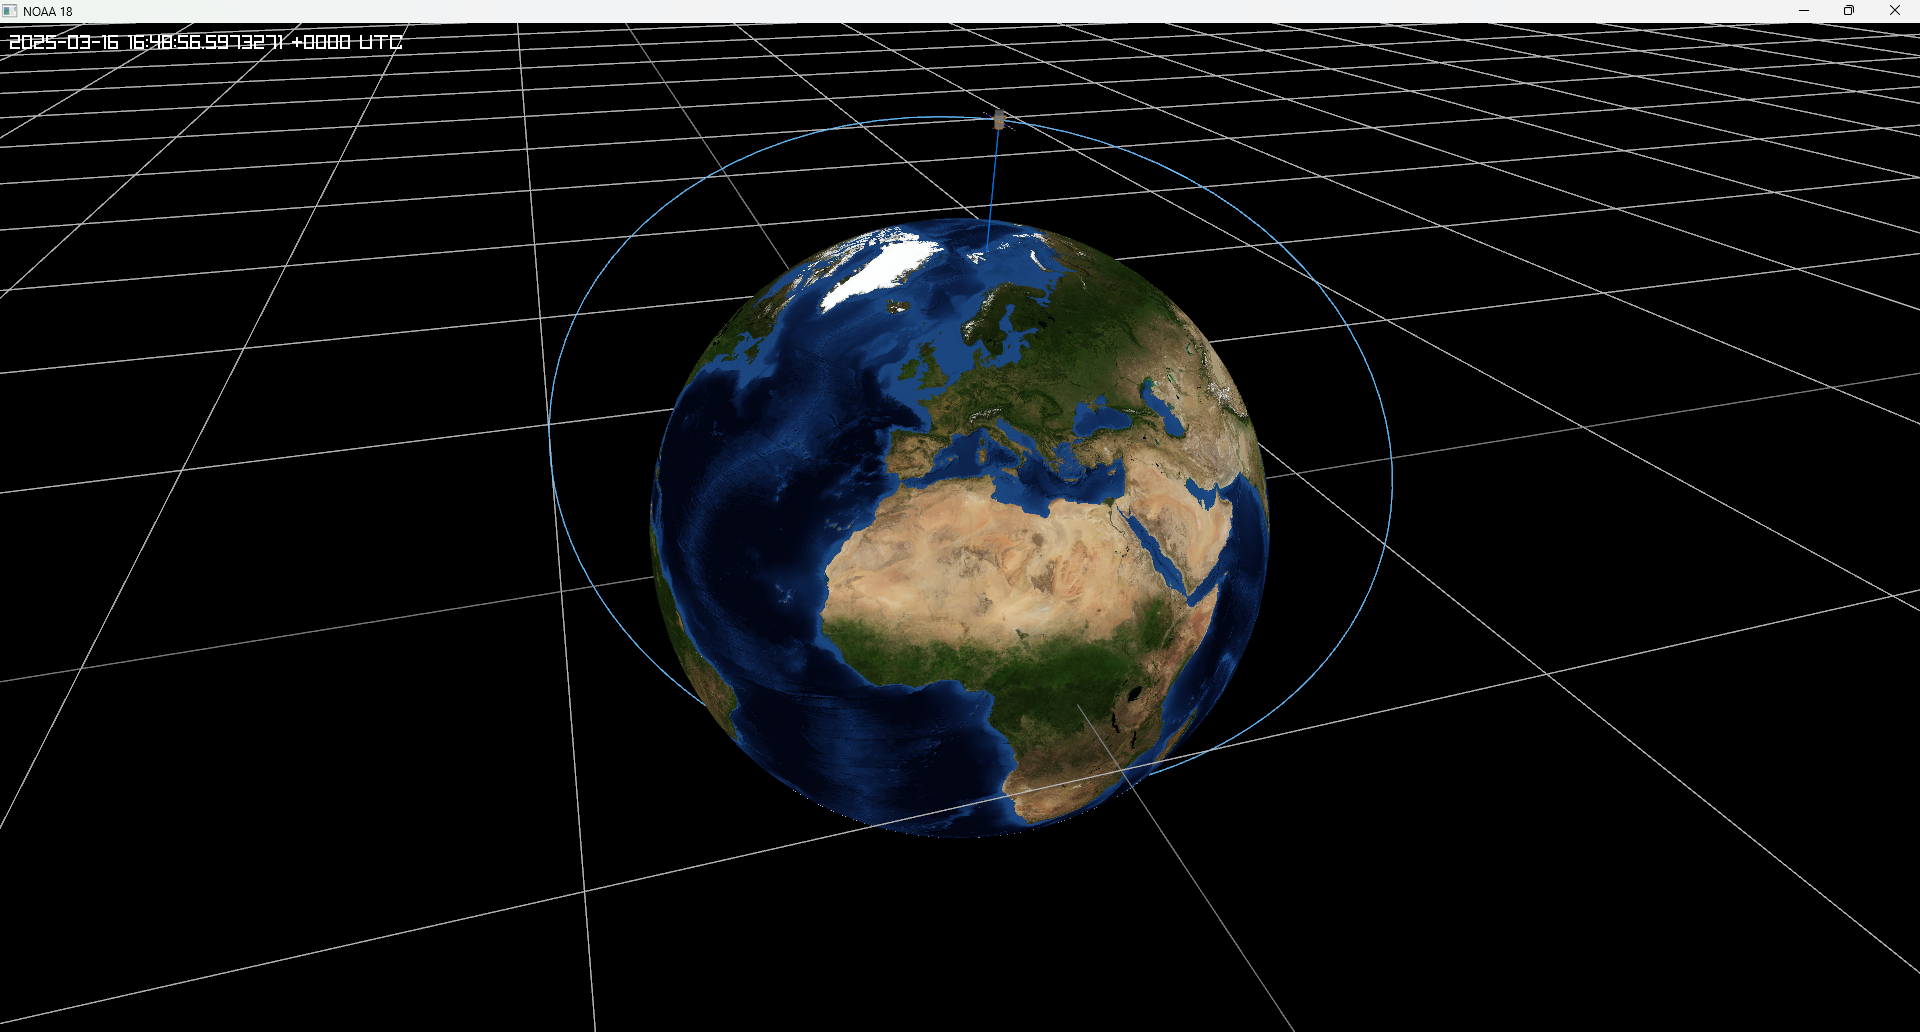
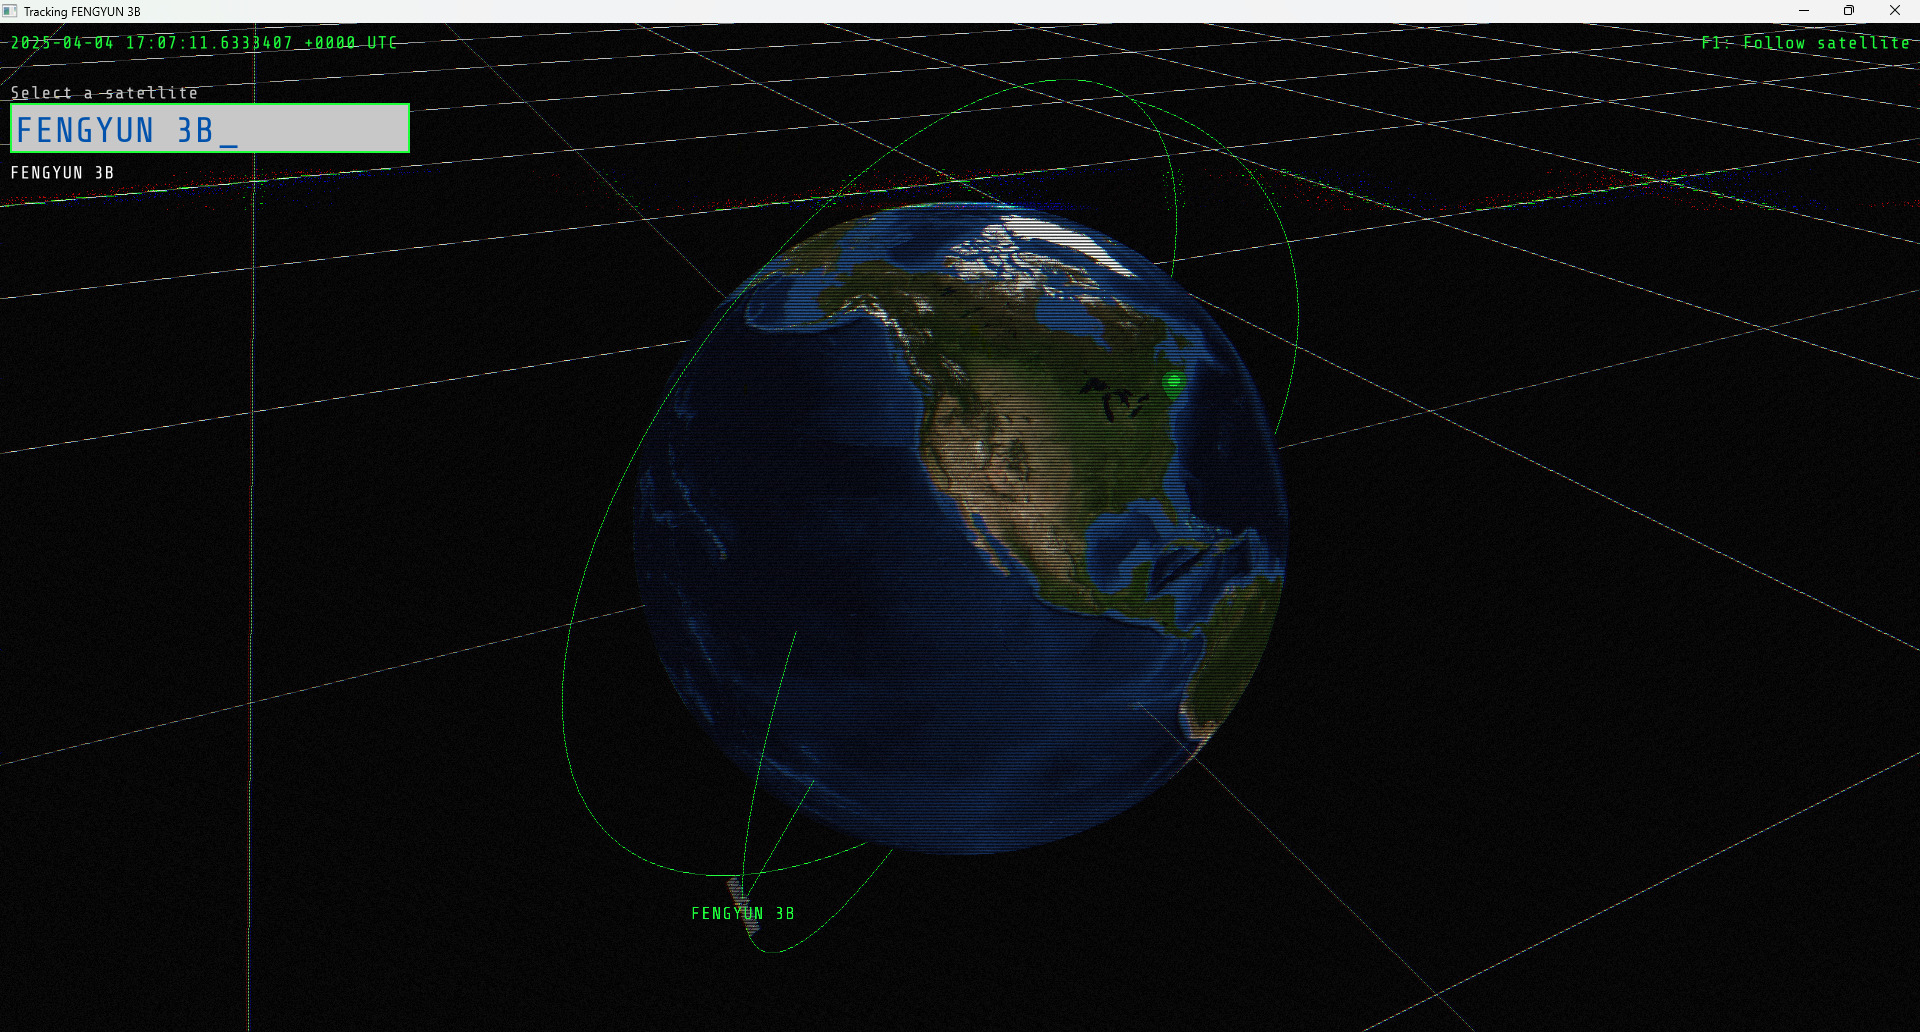
Update readme and screenshots Improved visuals with custom font and better color palette

diff --git a/tracker.go b/tracker.go
@@ -86,8 +86,9 @@ func main() {
 	defer rl.CloseWindow()
 
 	selectedSatellite := cfg.Section("Tracker").Key("satellite").String()
+	fmt.Println("[Config] Selected satellite:", selectedSatellite)
 
-	// Parse lat/long from config
+	// Parse lat/long from
 	parts := strings.Split(cfg.Section("Tracker").Key("ground_station").String(), ", ")
 	if len(parts) < 2 {
 		fmt.Printf("invalid ground station format")
@@ -105,14 +106,14 @@ func main() {
 		fmt.Printf("invalid longitude: %v", err)
 		return
 	}
-	fmt.Println("[Config] Ground station", groundLon, groundLat)
+	fmt.Println("[Config] Ground station:", groundLon, groundLat)
 
 	now := time.Now().UTC()
 
 	inputText := ""
 	orbitPoints := cfg.Section("Tracker").Key("orbit_duration").MustInt(100)
 
-	fmt.Println("[Config] Orbit points", orbitPoints)
+	fmt.Println("[Config] Orbit points:", orbitPoints)
 
 	var orbitPath = make([]rl.Vector3, orbitPoints)
 	sat, err := selectSatellite(selectedSatellite, satellites, scale, now, orbitPath[:], orbitPoints)
@@ -126,13 +127,17 @@ func main() {
 	resLoc := rl.GetShaderLocation(crtShader, "resolution")
 	defer rl.UnloadShader(crtShader)
 
-	earth_model := rl.LoadModel("res/Earth_1_12756.glb")
-	defer rl.UnloadModel(earth_model)
-	satellite_model := rl.LoadModel("res/satellite.glb")
-	defer rl.UnloadModel(satellite_model)
+	earthModel := rl.LoadModel("res/Earth_1_12756.glb")
+	defer rl.UnloadModel(earthModel)
+	satelliteModel := rl.LoadModel("res/satellite.glb")
+	defer rl.UnloadModel(satelliteModel)
 
 	bilboardTexture := rl.LoadTexture("res/location-bilboard-map.png")
 	defer rl.UnloadTexture(bilboardTexture)
+
+	ui.HackerFont = rl.LoadFontEx("res/ShareTechMono-Regular.ttf", 40, nil)
+	rl.SetTextureFilter(ui.HackerFont.Texture, rl.FilterBilinear)
+	defer rl.UnloadFont(ui.HackerFont)
 	
 	renderTarget := rl.LoadRenderTexture(int32(rl.GetScreenWidth()), int32(rl.GetScreenHeight()))
 	camera := rl.Camera{}
@@ -189,15 +194,15 @@ func main() {
 
 		rl.DrawGrid(50, 10)
 
-		rl.DrawModelEx(earth_model, rl.NewVector3(0, 0, 0), rl.NewVector3(0, 1, 0), 180, rl.NewVector3(0.01, 0.01, 0.01), rl.White)
+		rl.DrawModelEx(earthModel, rl.NewVector3(0, 0, 0), rl.NewVector3(0, 1, 0), 180, rl.NewVector3(0.01, 0.01, 0.01), rl.White)
 
 		// Draw orbit
 		for i := 0; i < orbitPoints-1; i++ {
-			rl.DrawLine3D(orbitPath[i], orbitPath[i+1], rl.SkyBlue)
+			rl.DrawLine3D(orbitPath[i], orbitPath[i+1], ui.GREEN_HACKER_COLOR)
 		}
 
-		rl.DrawModelEx(satellite_model, satPos, rl.NewVector3(0, 0, 0), 0.0, rl.NewVector3(0.0001, 0.0001, 0.0001), rl.White)
-		rl.DrawLine3D(satPos, rl.NewVector3(0, 0, 0), rl.Blue)
+		rl.DrawModelEx(satelliteModel, satPos, rl.NewVector3(0, 0, 0), 0.0, rl.NewVector3(0.0001, 0.0001, 0.0001), rl.White)
+		rl.DrawLine3D(satPos, rl.NewVector3(0, 0, 0), ui.GREEN_HACKER_COLOR)
 
 		// Draw ground station
 		groundStationECI := satellite.LLAToECI(satellite.LatLong{Latitude: groundLat * satellite.DEG2RAD, Longitude: groundLon * satellite.DEG2RAD}, 0.0, satellite.JDay(now.Year(), int(now.Month()), now.Day(), now.Hour(), now.Minute(), now.Second()))
@@ -206,7 +211,7 @@ func main() {
 		rotationMatrix := rl.MatrixRotateY(rl.Deg2rad * 90)
 		groundStationRotated := rl.Vector3Transform(rl.NewVector3(float32(groundStation.X), float32(groundStation.Z), -float32(groundStation.Y)), rotationMatrix)
 		// rl.DrawSphere(rl.NewVector3(groundStationRotated.X/1300, groundStationRotated.Y/1300, groundStationRotated.Z/1300), 0.1, rl.White)
-		rl.DrawBillboard(camera, bilboardTexture, rl.NewVector3(groundStationRotated.X/1260, groundStationRotated.Y/1260+0.1, groundStationRotated.Z/1260), 0.5, rl.White)
+		rl.DrawBillboard(camera, bilboardTexture, rl.NewVector3(groundStationRotated.X/1260, groundStationRotated.Y/1260+0.1, groundStationRotated.Z/1260), 0.5, ui.GREEN_HACKER_COLOR)
 
 		rl.EndMode3D()
 
@@ -224,21 +229,23 @@ func main() {
 		rl.EndShaderMode()
 
 		// Render the UI
-		date_text := now.String()
-		rl.DrawText(date_text, 10, 10, 20, rl.Yellow)
+		dateText := now.String()
+		rl.DrawTextEx(ui.HackerFont, dateText, rl.NewVector2(10, 10), 20, 1.0, ui.GREEN_HACKER_COLOR)
 
-		help_text := "F1: Follow satellite"
-		rl.DrawText(help_text, int32(rl.GetScreenWidth())-rl.MeasureText(help_text, 20)-10, 10, 20, rl.Yellow)
+		helpText := "F1: Follow satellite"
+		if followSatellite {
+			helpText = "F1: Globe view"
+		}
+		rl.DrawTextEx(ui.HackerFont, helpText, rl.NewVector2(float32(rl.GetScreenWidth()) - rl.MeasureTextEx(ui.HackerFont, helpText, 20, 1.0).X - 10, 10), 20, 1.0, ui.GREEN_HACKER_COLOR)
 
 		ui.InputText("Select a satellite", 10, 80, 400, 50, &inputText, 20)
 		inputText = strings.ToUpper(inputText)
-		if inputText != selectedSatellite {
-			selectedSatellite = inputText
-			tempSat, err := selectSatellite(selectedSatellite, satellites, scale, now, orbitPath[:], orbitPoints)
+		if inputText != selectedSatellite && inputText != "" {
+			tempSat, err := selectSatellite(inputText, satellites, scale, now, orbitPath[:], orbitPoints)
 			if err == nil {
+				selectedSatellite = inputText
 				sat = tempSat
 			} // Don't need to handle the error here
-
 		}
 
 		if inputText != "" {
@@ -253,9 +260,13 @@ func main() {
 			sort.Strings(slices)
 
 			for i, slice := range slices {
-				rl.DrawText(slice, 10, 140+int32(i)*20, 20, rl.White)
+				rl.DrawTextEx(ui.HackerFont, slice, rl.NewVector2(10, 140+float32(i)*20), 20, 1.0, rl.White)
 			}
 		}
+
+		// Draw text for the selected satellite
+		satNamePos := rl.GetWorldToScreen(satPos, camera)
+		rl.DrawTextEx(ui.HackerFont, selectedSatellite, rl.NewVector2(satNamePos.X-rl.MeasureTextEx(ui.HackerFont, selectedSatellite, 20, 1.0).X/2, satNamePos.Y), 20, 1.0, ui.GREEN_HACKER_COLOR)
 
 		rl.EndDrawing()
 	}

diff --git a/internal/ui/ui.go b/internal/ui/ui.go
@@ -4,6 +4,10 @@ import (
 	rl "github.com/gen2brain/raylib-go/raylib"
 )
 
+
+var GREEN_HACKER_COLOR = rl.NewColor(30, 255, 60, 255)
+var HackerFont rl.Font
+
 var cursorTimer int32
 var focus bool
 
@@ -48,21 +52,24 @@ func InputText(label string, x int32, y int32, width int32, height int32, buf *s
 		}
 	}
 
-	rl.DrawText(label, x, y-20, 20, rl.DarkGray)
+	rl.DrawTextEx(HackerFont, label, rl.NewVector2(textBox.X, textBox.Y-20), 20, 1.0, rl.LightGray)
 	rl.DrawRectangleRec(textBox, rl.LightGray)
 
 	// Highlight the input box if the mouse is over it
 	if focus {
-		rl.DrawRectangleLinesEx(textBox, 2.0, rl.Yellow)
+		rl.DrawRectangleLinesEx(textBox, 2.0, GREEN_HACKER_COLOR)
 	}
 
 	cursorTimer++
 	if focus && letterCount < int(maxCharacters) {
 		if (cursorTimer/20)%2 == 0 {
-			rl.DrawText("|", int32(textBox.X)+10+rl.MeasureText(*buf, 40), int32(textBox.Y)+8, 40, rl.DarkBlue)
+			rl.DrawTextEx(HackerFont, "_", 
+			rl.NewVector2(textBox.X+10.0+rl.MeasureTextEx(HackerFont, *buf, 40, 1.0).X, textBox.Y+8), 
+			40, 1.0, rl.DarkBlue)
 		}
 	}
 
 	// Draw the text entered so far
-	rl.DrawText(*buf, int32(textBox.X)+5, int32(textBox.Y)+8, 40, rl.DarkBlue)
+	// rl.DrawText(*buf, int32(textBox.X)+5, int32(textBox.Y)+8, 40, rl.DarkBlue)
+	rl.DrawTextEx(HackerFont, *buf, rl.NewVector2(textBox.X+5, textBox.Y+8), 40, 1.0, rl.DarkBlue)
 }
